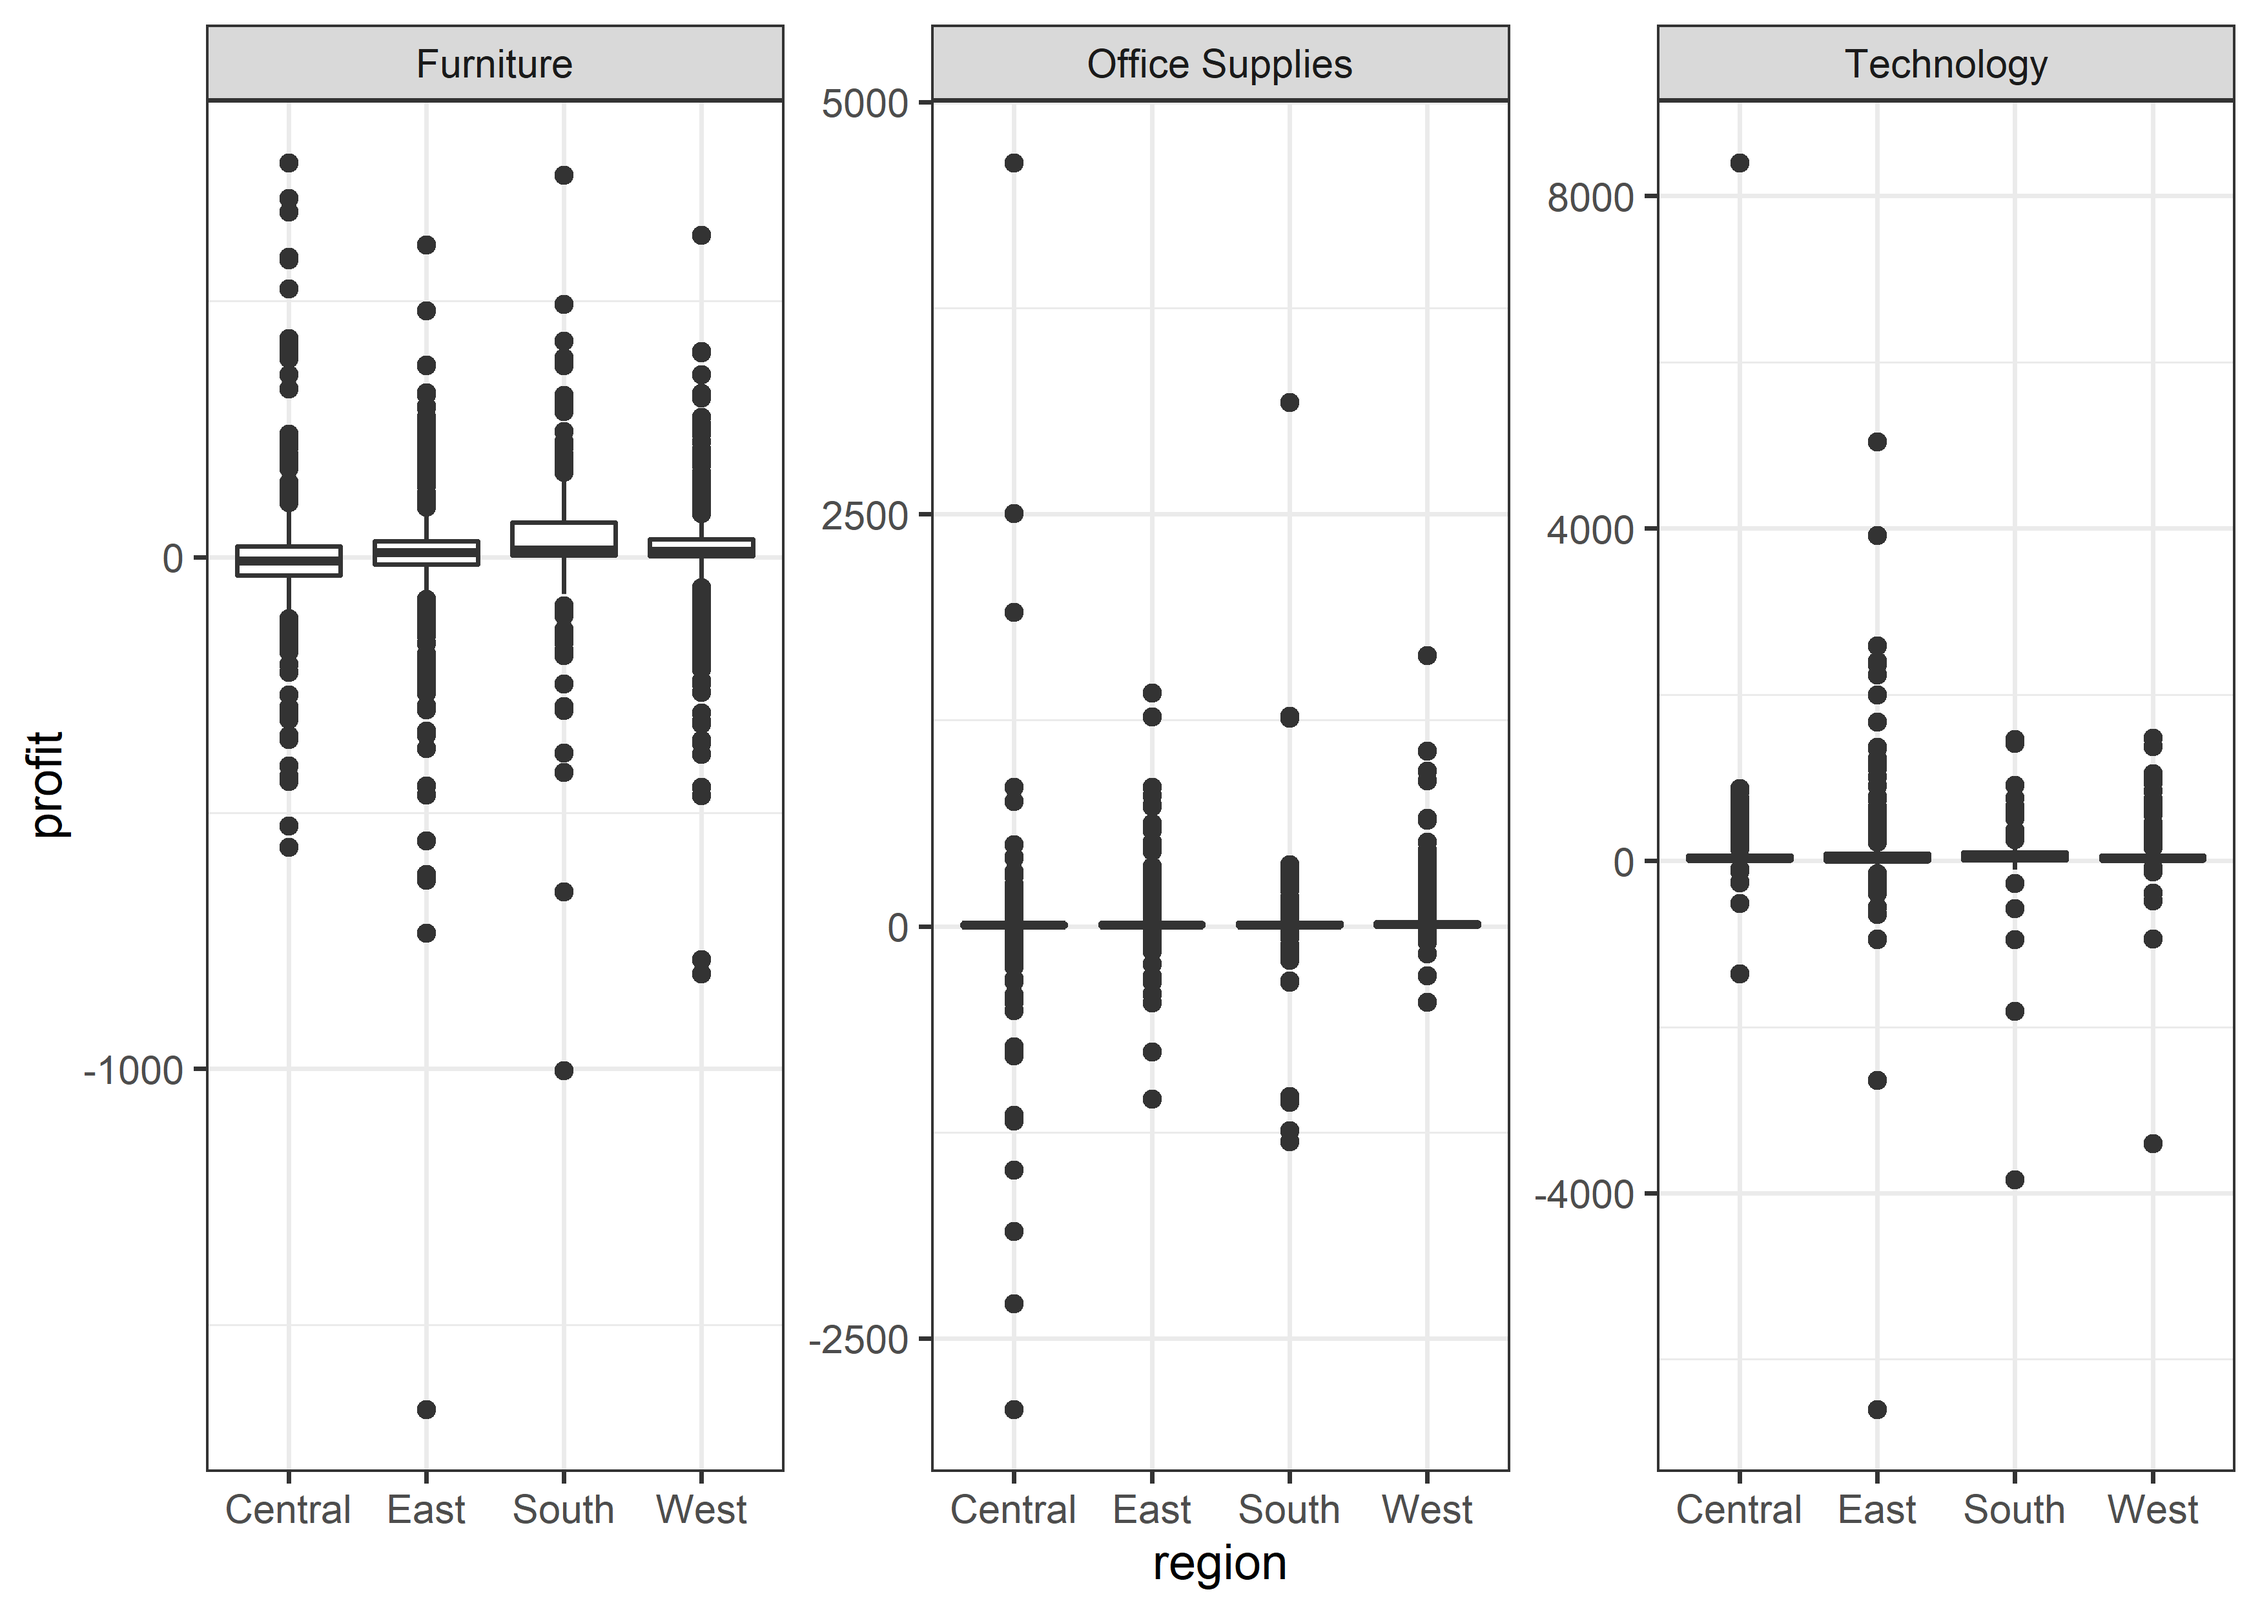
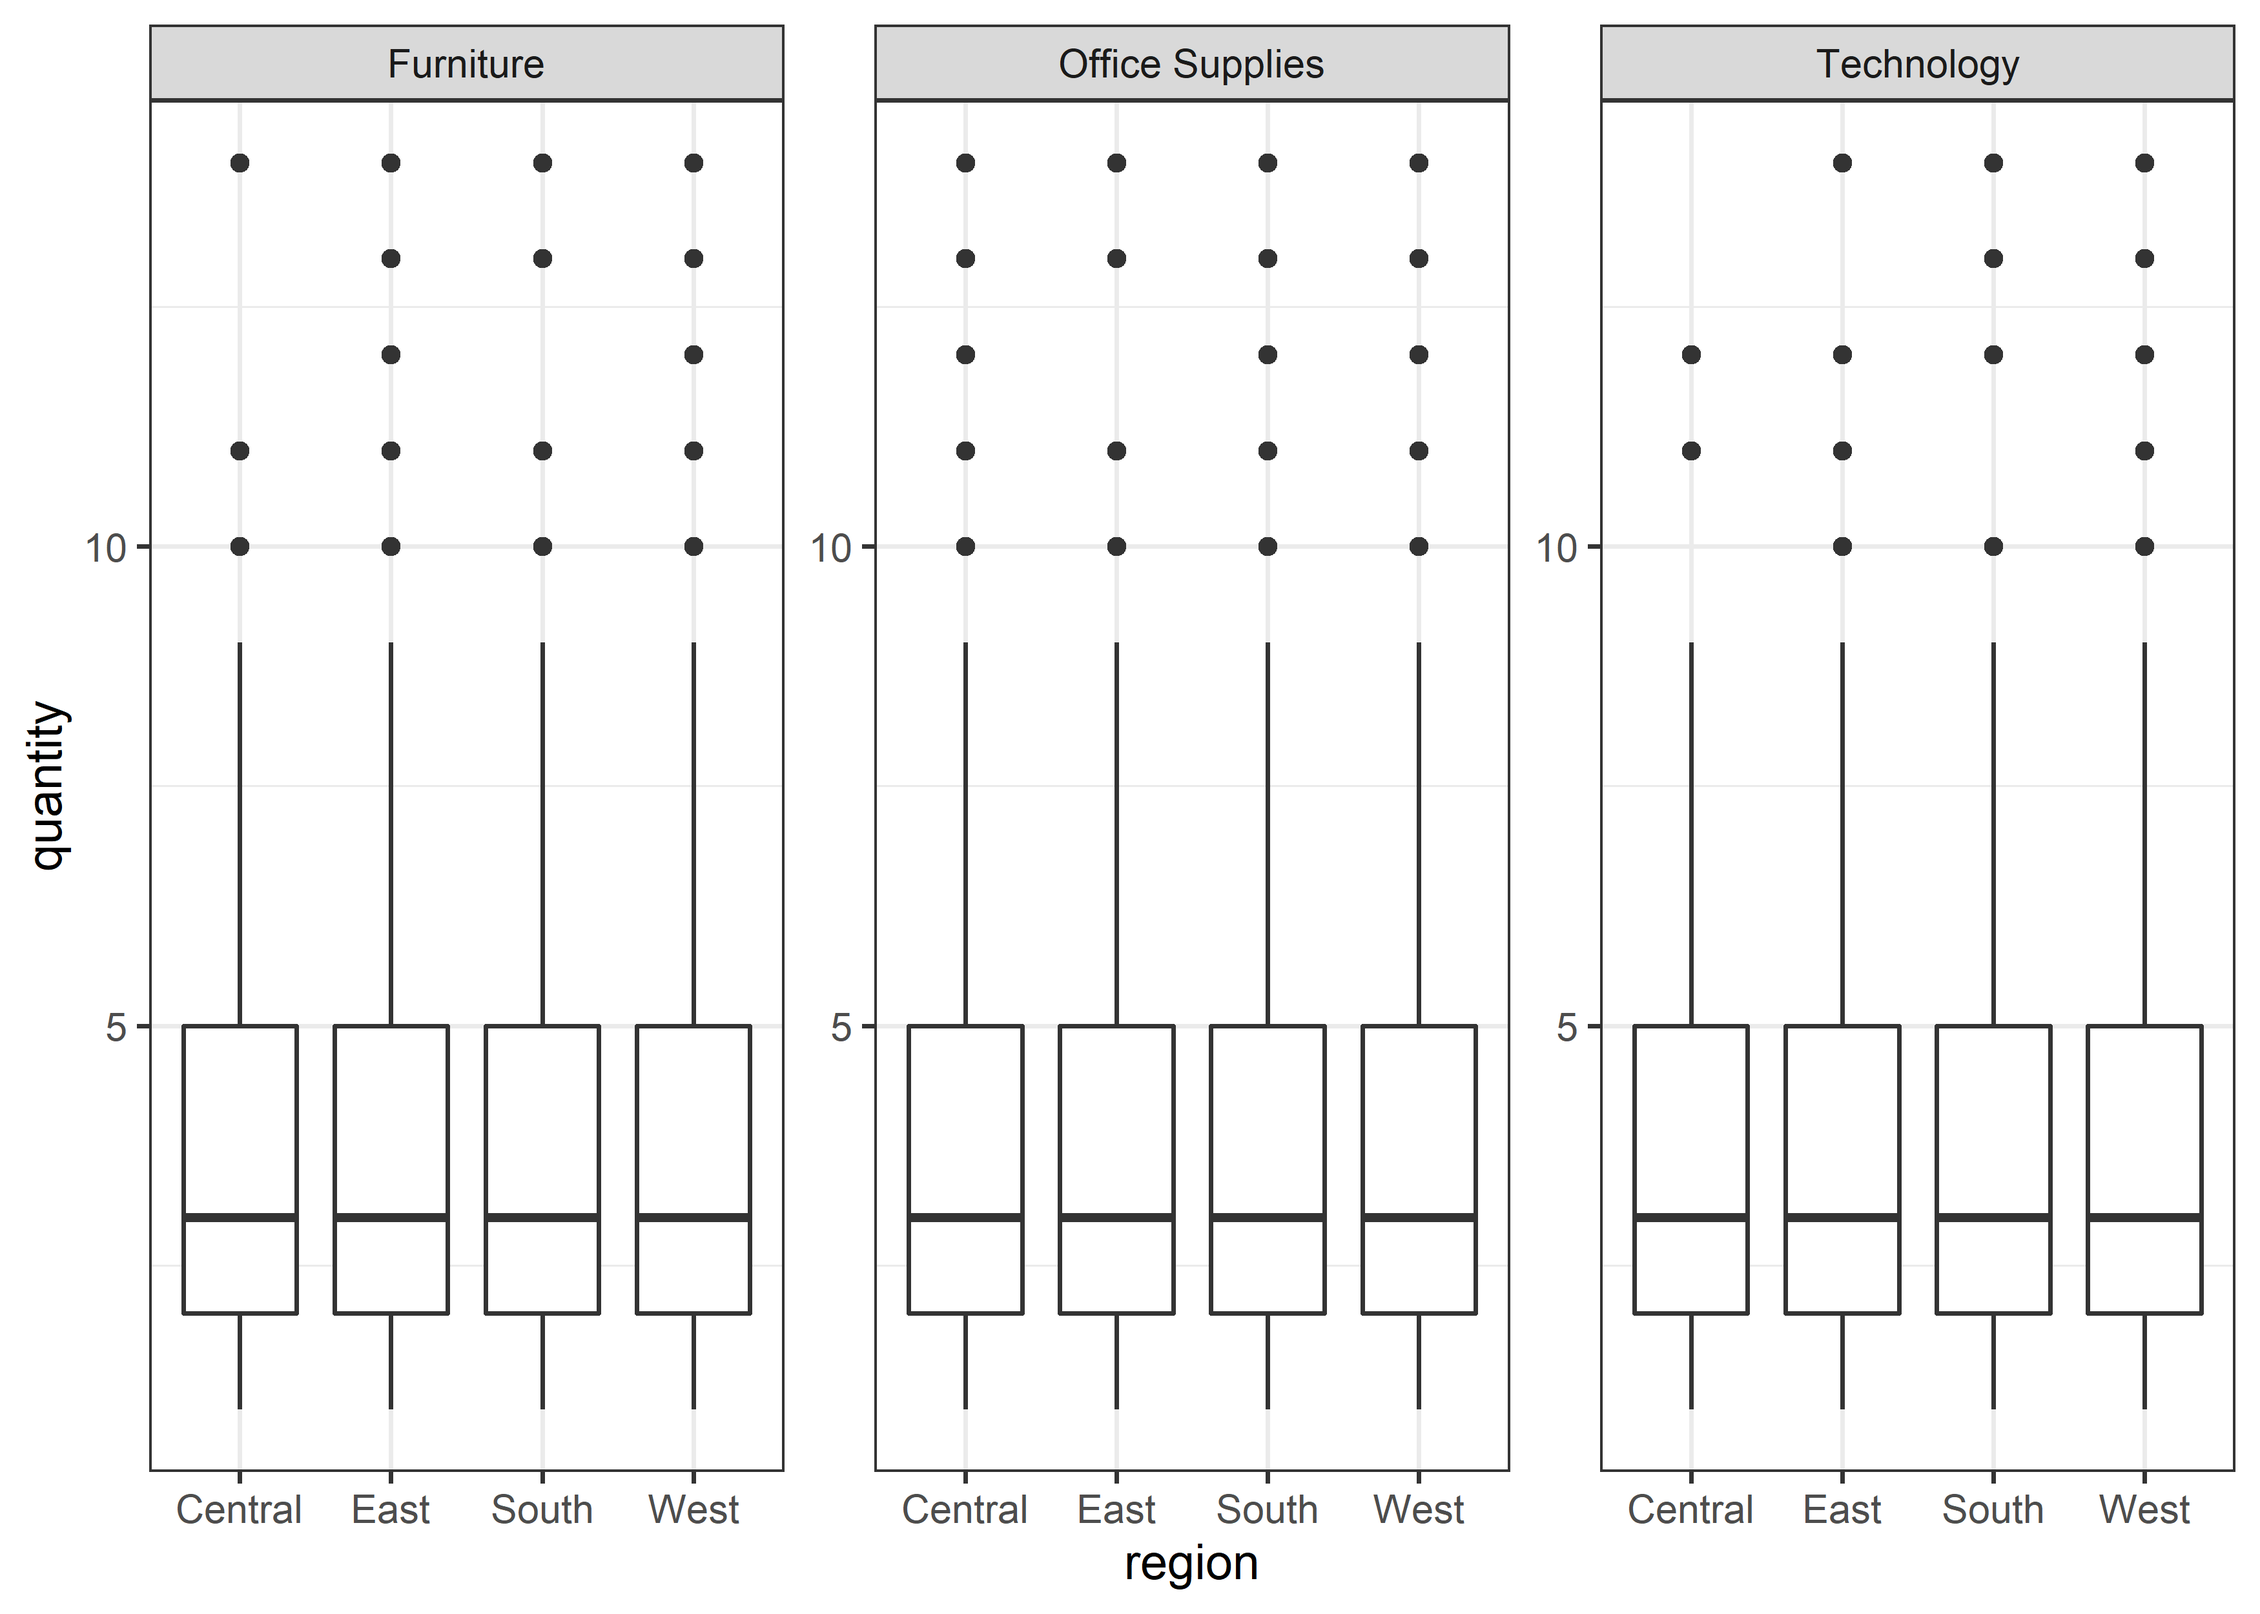
changed from profit to quantity on first plot

diff --git a/Office Supplies/Office-Supplies.md b/Office Supplies/Office-Supplies.md
@@ -129,7 +129,7 @@ office_supplies %>%
 | South   | Technology      | 60.515640 |
 
 ``` r
-ggplot(office_supplies, aes(region, profit)) + geom_boxplot() +
+ggplot(office_supplies, aes(region, quantity)) + geom_boxplot() +
   facet_wrap(~category, scales = "free")
 ```
 
